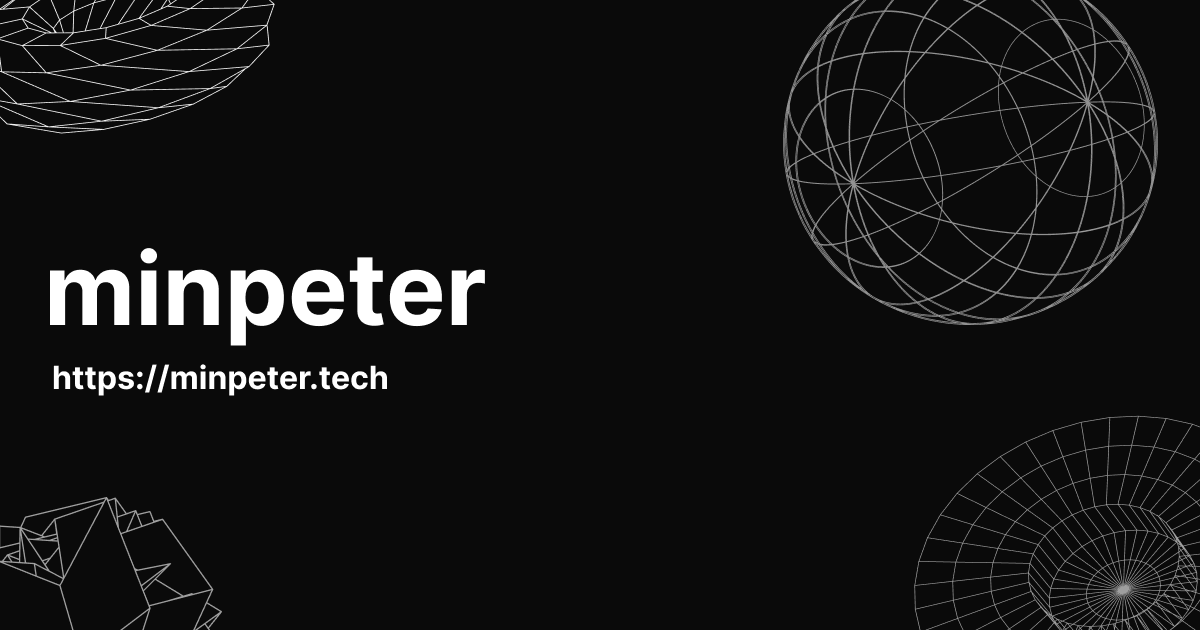
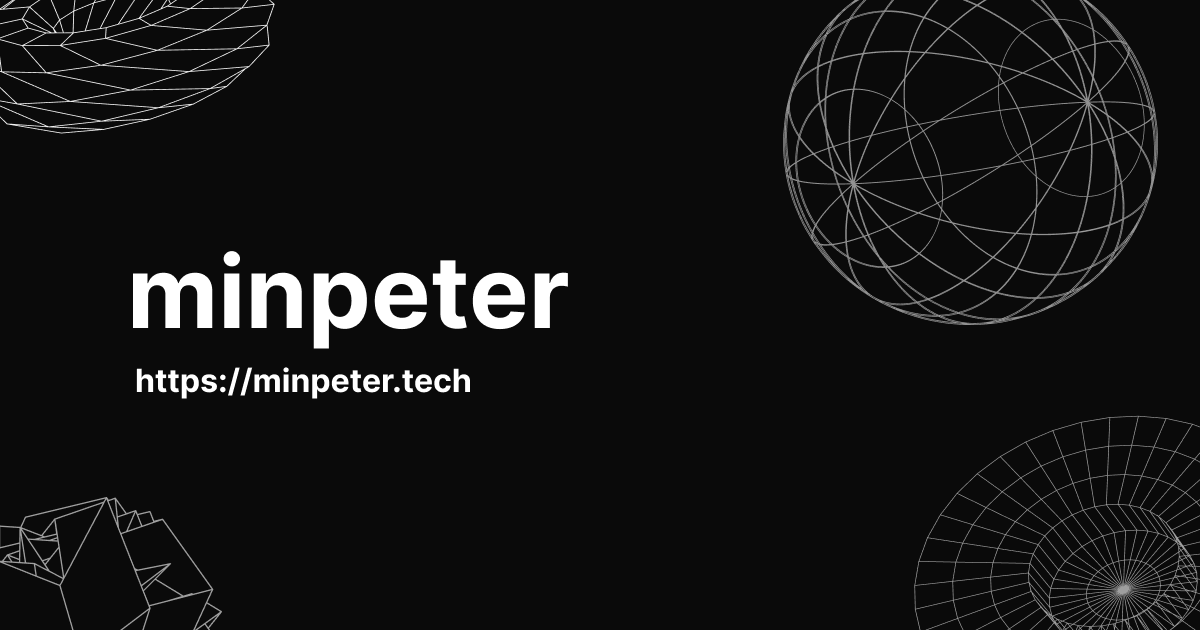
Remove unused imports and update opengraph image

Changed region(s): [[0.0308, 0.3921, 0.4933, 0.6333]]

diff --git a/lib/metadata.tsx b/lib/metadata.tsx
@@ -1,0 +1,48 @@
+import type { Metadata } from "next";
+
+export default function NewMetadata({
+  title,
+  description,
+}: {
+  title?: string;
+  description?: string;
+}): Metadata {
+  return {
+    metadataBase: new URL(
+      process.env.PUBLIC_BASE_URL
+        ? process.env.PUBLIC_BASE_URL
+        : process.env.VERCEL_URL
+        ? `https://${process.env.VERCEL_URL}`
+        : `http://localhost:${process.env.PORT ?? 3_000}`
+    ),
+    title: title,
+    description: description,
+    keywords: [
+      "minpeter",
+      "blog",
+      "development",
+      "web",
+      "frontend",
+      "backend",
+      "server",
+      "cloud",
+      "k8s",
+    ],
+    openGraph: {
+      type: "website",
+      locale: "ko_KR",
+      siteName: "minpeter",
+      title: title,
+      description: description,
+    },
+    twitter: {
+      card: "summary_large_image",
+      title: title,
+      description: description,
+      creator: "@minpeter",
+    },
+    formatDetection: {
+      telephone: false,
+    },
+  };
+}

diff --git a/app/blog/layout.tsx b/app/blog/layout.tsx
@@ -1,0 +1,11 @@
+import NewMetadata from "@/lib/metadata";
+
+export const metadata = NewMetadata({
+  title: "minpeter | blog",
+  description:
+    "개발에 대한 이야기를 나누는 블로그입니다. 최신 글을 확인해보세요.",
+});
+
+export default function Layout({ children }: { children: React.ReactNode }) {
+  return children;
+}

diff --git a/app/show/layout.tsx b/app/show/layout.tsx
@@ -1,0 +1,10 @@
+import NewMetadata from "@/lib/metadata";
+
+export const metadata = NewMetadata({
+  title: "minpeter | showcase",
+  description: "공들여 만들었지만 사용하지 않는 컴포넌트의 무덤",
+});
+
+export default function Layout({ children }: { children: React.ReactNode }) {
+  return children;
+}

diff --git a/app/not-found.tsx b/app/not-found.tsx
@@ -1,5 +1,3 @@
-import Link from "next/link";
-import { buttonVariants } from "@/components/ui/button";
 import Header from "@/components/header";
 
 export default function NotFound({ params }: any) {
